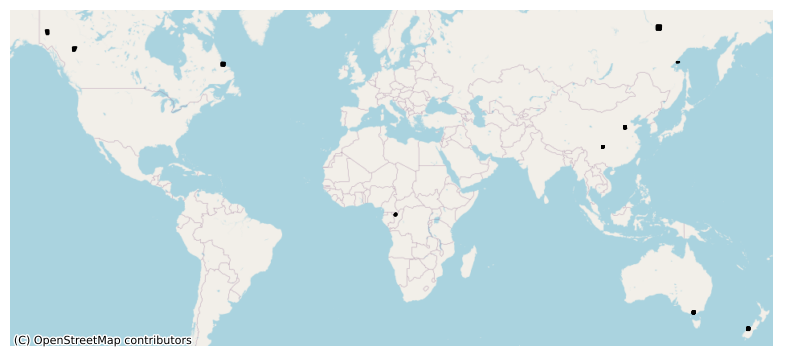
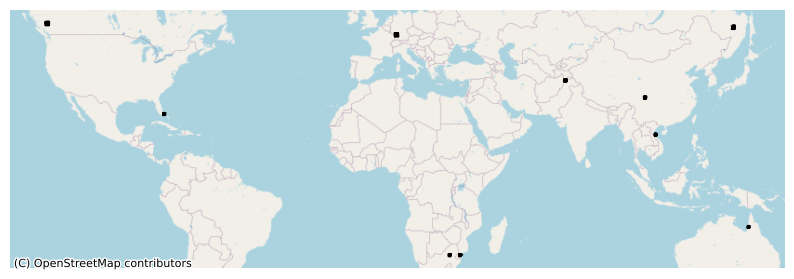
Deploying to gh-pages from @ Clay-foundation/model@733dcf20fc7390b9d2e3c31ae37464380aebdf1e 🚀

diff --git a/Clay Model releases/clay v0 release.html b/Clay Model releases/clay v0 release.html
@@ -94,18 +94,21 @@ pre > code.sourceCode > span > a:first-child::before { text-decoration: underlin
     "search-label": "Search"
   }
 }</script>
+<script src="https://cdnjs.cloudflare.com/ajax/libs/require.js/2.3.6/require.min.js" integrity="sha512-c3Nl8+7g4LMSTdrm621y7kf9v3SDPnhxLNhcjFJbKECVnmZHTdo+IRO05sNLTH/D3vA6u1X32ehoLC7WFVdheg==" crossorigin="anonymous"></script>
+<script src="https://cdnjs.cloudflare.com/ajax/libs/jquery/3.5.1/jquery.min.js" integrity="sha512-bLT0Qm9VnAYZDflyKcBaQ2gg0hSYNQrJ8RilYldYQ1FxQYoCLtUjuuRuZo+fjqhx/qtq/1itJ0C2ejDxltZVFg==" crossorigin="anonymous"></script>
+<script type="application/javascript">define('jquery', [],function() {return window.jQuery;})</script>
 
 
 <link rel="stylesheet" href="../styles.css">
 <meta property="og:title" content="clay - Clay Model v0 release">
 <meta property="og:description" content="Documentation for the Clay Model v0 release.">
-<meta property="og:image" content="https://Clay-foundation.github.io/model/Clay Model releases/Clay v0 release_files/figure-html/cell-3-output-1.png">
+<meta property="og:image" content="https://Clay-foundation.github.io/model/Clay Model releases/Clay v0 release_files/figure-html/cell-4-output-1.png">
 <meta property="og:site-name" content="clay">
 <meta property="og:image:height" content="389">
 <meta property="og:image:width" content="794">
 <meta name="twitter:title" content="clay - Clay Model v0 release">
 <meta name="twitter:description" content="Documentation for the Clay Model v0 release.">
-<meta name="twitter:image" content="https://Clay-foundation.github.io/model/Clay Model releases/Clay v0 release_files/figure-html/cell-3-output-1.png">
+<meta name="twitter:image" content="https://Clay-foundation.github.io/model/Clay Model releases/Clay v0 release_files/figure-html/cell-4-output-1.png">
 <meta name="twitter:image-height" content="389">
 <meta name="twitter:image-width" content="794">
 <meta name="twitter:card" content="summary_large_image">
@@ -412,10 +415,9 @@ pre > code.sourceCode > span > a:first-child::before { text-decoration: underlin
 <p>Let’s read all the embeddings from the trainning data and see how they look like.</p>
 <div class="cell">
 <div class="sourceCode cell-code" id="cb3"><pre class="sourceCode python code-with-copy"><code class="sourceCode python"><span id="cb3-1"><a href="#cb3-1" aria-hidden="true" tabindex="-1"></a>embeddings_path <span class="op">=</span> Path(<span class="st">"/home/brunosan/data/Clay/clay-vector-embeddings-v001"</span>)</span>
-<span id="cb3-2"><a href="#cb3-2" aria-hidden="true" tabindex="-1"></a>embeddings <span class="op">=</span> clay.embeddings.EmbeddingsHandler(embeddings_path)</span>
-<span id="cb3-3"><a href="#cb3-3" aria-hidden="true" tabindex="-1"></a>embeddings.load_data()</span></code><button title="Copy to Clipboard" class="code-copy-button"><i class="bi"></i></button></pre></div>
+<span id="cb3-2"><a href="#cb3-2" aria-hidden="true" tabindex="-1"></a>embeddings <span class="op">=</span> clay.embeddings.EmbeddingsHandler(embeddings_path)</span></code><button title="Copy to Clipboard" class="code-copy-button"><i class="bi"></i></button></pre></div>
 <div class="cell-output cell-output-stderr">
-<pre><code>100%|██████████| 1088/1088 [00:04&lt;00:00, 237.36it/s]</code></pre>
+<pre><code>100%|██████████| 1088/1088 [00:04&lt;00:00, 232.51it/s]</code></pre>
 </div>
 <div class="cell-output cell-output-stdout">
 <pre><code>Total rows: 947019
@@ -425,9 +427,53 @@ Done!
 </div>
 </div>
 <div class="cell">
-<div class="sourceCode cell-code" id="cb6"><pre class="sourceCode python code-with-copy"><code class="sourceCode python"><span id="cb6-1"><a href="#cb6-1" aria-hidden="true" tabindex="-1"></a>embeddings.plot(max_rows<span class="op">=</span><span class="va">None</span>)</span></code><button title="Copy to Clipboard" class="code-copy-button"><i class="bi"></i></button></pre></div>
+<div class="sourceCode cell-code" id="cb6"><pre class="sourceCode python code-with-copy"><code class="sourceCode python"><span id="cb6-1"><a href="#cb6-1" aria-hidden="true" tabindex="-1"></a>embeddings.gdf.head(n<span class="op">=</span><span class="dv">1</span>)</span></code><button title="Copy to Clipboard" class="code-copy-button"><i class="bi"></i></button></pre></div>
 <div class="cell-output cell-output-display">
-<p><img src="Clay v0 release_files/figure-html/cell-3-output-1.png" class="img-fluid"></p>
+<div>
+
+
+<table class="dataframe table table-sm table-striped small" data-quarto-postprocess="true" data-border="1">
+<thead>
+<tr class="header">
+<th data-quarto-table-cell-role="th"></th>
+<th data-quarto-table-cell-role="th">index</th>
+<th data-quarto-table-cell-role="th">source_url</th>
+<th data-quarto-table-cell-role="th">date</th>
+<th data-quarto-table-cell-role="th">embeddings</th>
+<th data-quarto-table-cell-role="th">geometry</th>
+<th data-quarto-table-cell-role="th">x</th>
+<th data-quarto-table-cell-role="th">y</th>
+<th data-quarto-table-cell-role="th">location</th>
+<th data-quarto-table-cell-role="th">start_date</th>
+<th data-quarto-table-cell-role="th">end_date</th>
+<th data-quarto-table-cell-role="th">version</th>
+</tr>
+</thead>
+<tbody>
+<tr class="odd">
+<td data-quarto-table-cell-role="th">0</td>
+<td>0</td>
+<td>s3://clay-tiles-02/02/33PWP/2018-10-21/claytil...</td>
+<td>2018-10-21</td>
+<td>[0.0053703142, -0.0085538495, 0.0025720706, 0....</td>
+<td>POLYGON ((1675014.721 1416156.064, 1675015.662...</td>
+<td>1.672391e+06</td>
+<td>1.418797e+06</td>
+<td>33PWP</td>
+<td>2018-10-21</td>
+<td>2020-01-14</td>
+<td>v001</td>
+</tr>
+</tbody>
+</table>
+
+</div>
+</div>
+</div>
+<div class="cell">
+<div class="sourceCode cell-code" id="cb7"><pre class="sourceCode python code-with-copy"><code class="sourceCode python"><span id="cb7-1"><a href="#cb7-1" aria-hidden="true" tabindex="-1"></a>embeddings.plot_locations(max_rows<span class="op">=</span><span class="va">None</span>)</span></code><button title="Copy to Clipboard" class="code-copy-button"><i class="bi"></i></button></pre></div>
+<div class="cell-output cell-output-display">
+<p><img src="Clay v0 release_files/figure-html/cell-4-output-1.png" class="img-fluid"></p>
 </div>
 </div>
 <p>These are some properties we expect from the embeddings:</p>
@@ -439,49 +485,72 @@ Done!
 <section id="l2norm-distribution" class="level3">
 <h3 class="anchored" data-anchor-id="l2norm-distribution">L2norm distribution</h3>
 <div class="cell">
-<div class="sourceCode cell-code" id="cb7"><pre class="sourceCode python code-with-copy"><code class="sourceCode python"><span id="cb7-1"><a href="#cb7-1" aria-hidden="true" tabindex="-1"></a>embeddings.gdf[<span class="st">"l2norm"</span>] <span class="op">=</span> embeddings.gdf[<span class="st">"embeddings"</span>].<span class="bu">apply</span>(</span>
-<span id="cb7-2"><a href="#cb7-2" aria-hidden="true" tabindex="-1"></a>    <span class="kw">lambda</span> x: np.linalg.norm(x, <span class="bu">ord</span><span class="op">=</span><span class="dv">2</span>)</span>
-<span id="cb7-3"><a href="#cb7-3" aria-hidden="true" tabindex="-1"></a>)</span></code><button title="Copy to Clipboard" class="code-copy-button"><i class="bi"></i></button></pre></div>
+<div class="sourceCode cell-code" id="cb8"><pre class="sourceCode python code-with-copy"><code class="sourceCode python"><span id="cb8-1"><a href="#cb8-1" aria-hidden="true" tabindex="-1"></a>embeddings.gdf[<span class="st">"l2norm"</span>] <span class="op">=</span> embeddings.gdf[<span class="st">"embeddings"</span>].<span class="bu">apply</span>(</span>
+<span id="cb8-2"><a href="#cb8-2" aria-hidden="true" tabindex="-1"></a>    <span class="kw">lambda</span> x: np.linalg.norm(x, <span class="bu">ord</span><span class="op">=</span><span class="dv">2</span>)</span>
+<span id="cb8-3"><a href="#cb8-3" aria-hidden="true" tabindex="-1"></a>)</span></code><button title="Copy to Clipboard" class="code-copy-button"><i class="bi"></i></button></pre></div>
 </div>
-<div class="cell" data-execution_count="19">
-<div class="sourceCode cell-code" id="cb8"><pre class="sourceCode python code-with-copy"><code class="sourceCode python"><span id="cb8-1"><a href="#cb8-1" aria-hidden="true" tabindex="-1"></a>fig, ax <span class="op">=</span> plt.subplots(<span class="dv">1</span>, <span class="dv">2</span>, figsize<span class="op">=</span>(<span class="dv">10</span>, <span class="dv">5</span>))</span>
-<span id="cb8-2"><a href="#cb8-2" aria-hidden="true" tabindex="-1"></a>ax[<span class="dv">0</span>].set_title(<span class="st">"L2 norm histogram"</span>)</span>
-<span id="cb8-3"><a href="#cb8-3" aria-hidden="true" tabindex="-1"></a>ax[<span class="dv">0</span>].set_xlabel(<span class="st">"L2 norm"</span>)</span>
-<span id="cb8-4"><a href="#cb8-4" aria-hidden="true" tabindex="-1"></a>ax[<span class="dv">0</span>].set_ylabel(<span class="st">"Count"</span>)</span>
-<span id="cb8-5"><a href="#cb8-5" aria-hidden="true" tabindex="-1"></a>ax[<span class="dv">0</span>].hist(embeddings.gdf[<span class="st">"l2norm"</span>], bins<span class="op">=</span><span class="dv">100</span>)</span>
-<span id="cb8-6"><a href="#cb8-6" aria-hidden="true" tabindex="-1"></a>ax[<span class="dv">1</span>].set_title(<span class="st">"L2 norm cumulative histogram"</span>)</span>
-<span id="cb8-7"><a href="#cb8-7" aria-hidden="true" tabindex="-1"></a>ax[<span class="dv">1</span>].set_xlabel(<span class="st">"L2 norm"</span>)</span>
-<span id="cb8-8"><a href="#cb8-8" aria-hidden="true" tabindex="-1"></a>ax[<span class="dv">1</span>].set_ylabel(<span class="st">"Cumulative count"</span>)</span>
-<span id="cb8-9"><a href="#cb8-9" aria-hidden="true" tabindex="-1"></a>ax[<span class="dv">1</span>].hist(embeddings.gdf[<span class="st">"l2norm"</span>], bins<span class="op">=</span><span class="dv">100</span>, density<span class="op">=</span><span class="va">True</span>, cumulative<span class="op">=</span><span class="va">True</span>)</span></code><button title="Copy to Clipboard" class="code-copy-button"><i class="bi"></i></button></pre></div>
-<div class="cell-output cell-output-display">
-<p><img src="Clay v0 release_files/figure-html/cell-5-output-1.png" class="img-fluid"></p>
-</div>
-</div>
-<p>We can see that ~80% of the embeddings are between <code>2.7</code> and <code>2.9</code>, with two peaks on the edges. We can explore samples from the tails to see what is going on.</p>
 <div class="cell">
-<div class="sourceCode cell-code" id="cb9"><pre class="sourceCode python code-with-copy"><code class="sourceCode python"><span id="cb9-1"><a href="#cb9-1" aria-hidden="true" tabindex="-1"></a>left_peak_range <span class="op">=</span> [<span class="fl">2.6</span>, <span class="fl">2.7</span>]</span>
-<span id="cb9-2"><a href="#cb9-2" aria-hidden="true" tabindex="-1"></a>right_peak_range <span class="op">=</span> [<span class="fl">2.95</span>, <span class="fl">3.1</span>]</span>
-<span id="cb9-3"><a href="#cb9-3" aria-hidden="true" tabindex="-1"></a></span>
-<span id="cb9-4"><a href="#cb9-4" aria-hidden="true" tabindex="-1"></a><span class="bu">print</span>(<span class="ss">f"embeddings: </span><span class="sc">{</span><span class="bu">len</span>(embeddings.gdf)<span class="sc">}</span><span class="ss">"</span>)</span>
-<span id="cb9-5"><a href="#cb9-5" aria-hidden="true" tabindex="-1"></a></span>
-<span id="cb9-6"><a href="#cb9-6" aria-hidden="true" tabindex="-1"></a>left_tails <span class="op">=</span> copy.deepcopy(embeddings)</span>
-<span id="cb9-7"><a href="#cb9-7" aria-hidden="true" tabindex="-1"></a>left_tails.gdf <span class="op">=</span> embeddings.gdf[</span>
-<span id="cb9-8"><a href="#cb9-8" aria-hidden="true" tabindex="-1"></a>    (embeddings.gdf[<span class="st">"l2norm"</span>] <span class="op">&gt;</span> left_peak_range[<span class="dv">0</span>])</span>
-<span id="cb9-9"><a href="#cb9-9" aria-hidden="true" tabindex="-1"></a>    <span class="op">&amp;</span> (embeddings.gdf[<span class="st">"l2norm"</span>] <span class="op">&lt;</span> left_peak_range[<span class="dv">1</span>])</span>
-<span id="cb9-10"><a href="#cb9-10" aria-hidden="true" tabindex="-1"></a>].copy()</span>
-<span id="cb9-11"><a href="#cb9-11" aria-hidden="true" tabindex="-1"></a></span>
-<span id="cb9-12"><a href="#cb9-12" aria-hidden="true" tabindex="-1"></a>right_tails <span class="op">=</span> copy.deepcopy(embeddings)</span>
-<span id="cb9-13"><a href="#cb9-13" aria-hidden="true" tabindex="-1"></a>right_tails.gdf <span class="op">=</span> embeddings.gdf[</span>
-<span id="cb9-14"><a href="#cb9-14" aria-hidden="true" tabindex="-1"></a>    (embeddings.gdf[<span class="st">"l2norm"</span>] <span class="op">&gt;</span> right_peak_range[<span class="dv">0</span>])</span>
-<span id="cb9-15"><a href="#cb9-15" aria-hidden="true" tabindex="-1"></a>    <span class="op">&amp;</span> (embeddings.gdf[<span class="st">"l2norm"</span>] <span class="op">&lt;</span> right_peak_range[<span class="dv">1</span>])</span>
-<span id="cb9-16"><a href="#cb9-16" aria-hidden="true" tabindex="-1"></a>].copy()</span>
-<span id="cb9-17"><a href="#cb9-17" aria-hidden="true" tabindex="-1"></a></span>
-<span id="cb9-18"><a href="#cb9-18" aria-hidden="true" tabindex="-1"></a><span class="bu">print</span>(<span class="ss">f"left_tails: </span><span class="sc">{</span><span class="bu">len</span>(left_tails.gdf)<span class="sc">}</span><span class="ss">"</span>)</span>
-<span id="cb9-19"><a href="#cb9-19" aria-hidden="true" tabindex="-1"></a><span class="bu">print</span>(<span class="ss">f"right_tails: </span><span class="sc">{</span><span class="bu">len</span>(right_tails.gdf)<span class="sc">}</span><span class="ss">"</span>)</span></code><button title="Copy to Clipboard" class="code-copy-button"><i class="bi"></i></button></pre></div>
-<div class="cell-output cell-output-stdout">
-<pre><code>embeddings: 947019
-left_tails: 60581
-right_tails: 94057</code></pre>
+<div class="sourceCode cell-code" id="cb9"><pre class="sourceCode python code-with-copy"><code class="sourceCode python"><span id="cb9-1"><a href="#cb9-1" aria-hidden="true" tabindex="-1"></a>fig, ax <span class="op">=</span> plt.subplots(<span class="dv">1</span>, <span class="dv">2</span>, figsize<span class="op">=</span>(<span class="dv">10</span>, <span class="dv">5</span>))</span>
+<span id="cb9-2"><a href="#cb9-2" aria-hidden="true" tabindex="-1"></a>ax[<span class="dv">0</span>].set_title(<span class="st">"L2 norm histogram"</span>)</span>
+<span id="cb9-3"><a href="#cb9-3" aria-hidden="true" tabindex="-1"></a>ax[<span class="dv">0</span>].set_xlabel(<span class="st">"L2 norm"</span>)</span>
+<span id="cb9-4"><a href="#cb9-4" aria-hidden="true" tabindex="-1"></a>ax[<span class="dv">0</span>].set_ylabel(<span class="st">"Count"</span>)</span>
+<span id="cb9-5"><a href="#cb9-5" aria-hidden="true" tabindex="-1"></a>ax[<span class="dv">0</span>].hist(embeddings.gdf[<span class="st">"l2norm"</span>], bins<span class="op">=</span><span class="dv">100</span>)</span>
+<span id="cb9-6"><a href="#cb9-6" aria-hidden="true" tabindex="-1"></a>ax[<span class="dv">1</span>].set_title(<span class="st">"L2 norm cumulative histogram"</span>)</span>
+<span id="cb9-7"><a href="#cb9-7" aria-hidden="true" tabindex="-1"></a>ax[<span class="dv">1</span>].set_xlabel(<span class="st">"L2 norm"</span>)</span>
+<span id="cb9-8"><a href="#cb9-8" aria-hidden="true" tabindex="-1"></a>ax[<span class="dv">1</span>].set_ylabel(<span class="st">"Cumulative count"</span>)</span>
+<span id="cb9-9"><a href="#cb9-9" aria-hidden="true" tabindex="-1"></a>ax[<span class="dv">1</span>].hist(embeddings.gdf[<span class="st">"l2norm"</span>], bins<span class="op">=</span><span class="dv">100</span>, density<span class="op">=</span><span class="va">True</span>, cumulative<span class="op">=</span><span class="va">True</span>)</span>
+<span id="cb9-10"><a href="#cb9-10" aria-hidden="true" tabindex="-1"></a></span>
+<span id="cb9-11"><a href="#cb9-11" aria-hidden="true" tabindex="-1"></a>peaks <span class="op">=</span> [<span class="fl">2.65</span>, <span class="fl">2.83</span>, <span class="fl">3.06</span>]</span>
+<span id="cb9-12"><a href="#cb9-12" aria-hidden="true" tabindex="-1"></a><span class="cf">for</span> i <span class="kw">in</span> peaks:</span>
+<span id="cb9-13"><a href="#cb9-13" aria-hidden="true" tabindex="-1"></a>    ax[<span class="dv">0</span>].axvline(i, color<span class="op">=</span><span class="st">"red"</span>, linestyle<span class="op">=</span><span class="st">"--"</span>)</span>
+<span id="cb9-14"><a href="#cb9-14" aria-hidden="true" tabindex="-1"></a>    ax[<span class="dv">0</span>].axvline(i, color<span class="op">=</span><span class="st">"red"</span>, linestyle<span class="op">=</span><span class="st">"--"</span>)</span>
+<span id="cb9-15"><a href="#cb9-15" aria-hidden="true" tabindex="-1"></a>range_of_peaks <span class="op">=</span> [<span class="fl">2.6</span>, <span class="fl">2.68</span>, <span class="dv">3</span>, <span class="fl">3.1</span>]</span>
+<span id="cb9-16"><a href="#cb9-16" aria-hidden="true" tabindex="-1"></a><span class="cf">for</span> i <span class="kw">in</span> peaks:</span>
+<span id="cb9-17"><a href="#cb9-17" aria-hidden="true" tabindex="-1"></a>    ax[<span class="dv">0</span>].axvline(i, color<span class="op">=</span><span class="st">"black"</span>, linestyle<span class="op">=</span><span class="st">"--"</span>)</span>
+<span id="cb9-18"><a href="#cb9-18" aria-hidden="true" tabindex="-1"></a>    ax[<span class="dv">0</span>].axvline(i, color<span class="op">=</span><span class="st">"black"</span>, linestyle<span class="op">=</span><span class="st">"--"</span>)</span></code><button title="Copy to Clipboard" class="code-copy-button"><i class="bi"></i></button></pre></div>
+<div class="cell-output cell-output-display">
+<p><img src="Clay v0 release_files/figure-html/cell-6-output-1.png" class="img-fluid"></p>
+</div>
+</div>
+<p>We can see that ~80% of the embeddings are between <code>2.65</code> and <code>3.06</code>, with two peaks on the edges. We can explore samples from the tails to see what is going on.</p>
+<div class="cell">
+<div class="sourceCode cell-code" id="cb10"><pre class="sourceCode python code-with-copy"><code class="sourceCode python"><span id="cb10-1"><a href="#cb10-1" aria-hidden="true" tabindex="-1"></a>peak <span class="op">=</span> peaks[<span class="dv">0</span>]</span>
+<span id="cb10-2"><a href="#cb10-2" aria-hidden="true" tabindex="-1"></a>embeddings.gdf[<span class="st">"distance_to_peak"</span>] <span class="op">=</span> (embeddings.gdf[<span class="st">"l2norm"</span>] <span class="op">-</span> peak).<span class="bu">abs</span>()</span>
+<span id="cb10-3"><a href="#cb10-3" aria-hidden="true" tabindex="-1"></a></span>
+<span id="cb10-4"><a href="#cb10-4" aria-hidden="true" tabindex="-1"></a>embeddings.gdf.sort_values(by<span class="op">=</span><span class="st">"distance_to_peak"</span>, inplace<span class="op">=</span><span class="va">True</span>)</span>
+<span id="cb10-5"><a href="#cb10-5" aria-hidden="true" tabindex="-1"></a></span>
+<span id="cb10-6"><a href="#cb10-6" aria-hidden="true" tabindex="-1"></a>indices <span class="op">=</span> embeddings.gdf.head(n<span class="op">=</span><span class="dv">12</span>).index</span>
+<span id="cb10-7"><a href="#cb10-7" aria-hidden="true" tabindex="-1"></a>embeddings.rgb_imgs(indices, local_folder<span class="op">=</span>Path(<span class="st">"/home/brunosan/data/Clay/rgbs/"</span>))</span></code><button title="Copy to Clipboard" class="code-copy-button"><i class="bi"></i></button></pre></div>
+<div class="cell-output cell-output-display">
+<p><img src="Clay v0 release_files/figure-html/cell-7-output-1.png" class="img-fluid"></p>
+</div>
+</div>
+<p>They seem to correspond to chips with a lot of snow. I might make sense that the semantics here are both different and “smaller”.</p>
+<p>For the second peak we thus expect more complex, yet rare, semantics. Since the lenght is bigger and the peak much smaller than the rest.</p>
+<div class="cell">
+<div class="sourceCode cell-code" id="cb11"><pre class="sourceCode python code-with-copy"><code class="sourceCode python"><span id="cb11-1"><a href="#cb11-1" aria-hidden="true" tabindex="-1"></a>peak <span class="op">=</span> peaks[<span class="dv">2</span>]</span>
+<span id="cb11-2"><a href="#cb11-2" aria-hidden="true" tabindex="-1"></a>embeddings.gdf[<span class="st">"distance_to_peak"</span>] <span class="op">=</span> (embeddings.gdf[<span class="st">"l2norm"</span>] <span class="op">-</span> peak).<span class="bu">abs</span>()</span>
+<span id="cb11-3"><a href="#cb11-3" aria-hidden="true" tabindex="-1"></a></span>
+<span id="cb11-4"><a href="#cb11-4" aria-hidden="true" tabindex="-1"></a>embeddings.gdf.sort_values(by<span class="op">=</span><span class="st">"distance_to_peak"</span>, inplace<span class="op">=</span><span class="va">True</span>)</span>
+<span id="cb11-5"><a href="#cb11-5" aria-hidden="true" tabindex="-1"></a></span>
+<span id="cb11-6"><a href="#cb11-6" aria-hidden="true" tabindex="-1"></a>indices <span class="op">=</span> embeddings.gdf.head(n<span class="op">=</span><span class="dv">12</span>).index</span>
+<span id="cb11-7"><a href="#cb11-7" aria-hidden="true" tabindex="-1"></a>embeddings.rgb_imgs(indices, local_folder<span class="op">=</span>Path(<span class="st">"/home/brunosan/data/Clay/rgbs/"</span>))</span></code><button title="Copy to Clipboard" class="code-copy-button"><i class="bi"></i></button></pre></div>
+<div class="cell-output cell-output-display">
+<p><img src="Clay v0 release_files/figure-html/cell-8-output-1.png" class="img-fluid"></p>
+</div>
+</div>
+<p>This secondary peak seems to aggregate open water locations.</p>
+<p>And now, let’s just visualize the peak of the histogram, the most common “length” of the embeddings.</p>
+<div class="cell">
+<div class="sourceCode cell-code" id="cb12"><pre class="sourceCode python code-with-copy"><code class="sourceCode python"><span id="cb12-1"><a href="#cb12-1" aria-hidden="true" tabindex="-1"></a>peak <span class="op">=</span> peaks[<span class="dv">1</span>]</span>
+<span id="cb12-2"><a href="#cb12-2" aria-hidden="true" tabindex="-1"></a>embeddings.gdf[<span class="st">"distance_to_peak"</span>] <span class="op">=</span> (embeddings.gdf[<span class="st">"l2norm"</span>] <span class="op">-</span> peak).<span class="bu">abs</span>()</span>
+<span id="cb12-3"><a href="#cb12-3" aria-hidden="true" tabindex="-1"></a></span>
+<span id="cb12-4"><a href="#cb12-4" aria-hidden="true" tabindex="-1"></a>embeddings.gdf.sort_values(by<span class="op">=</span><span class="st">"distance_to_peak"</span>, inplace<span class="op">=</span><span class="va">True</span>)</span>
+<span id="cb12-5"><a href="#cb12-5" aria-hidden="true" tabindex="-1"></a></span>
+<span id="cb12-6"><a href="#cb12-6" aria-hidden="true" tabindex="-1"></a>indices <span class="op">=</span> embeddings.gdf.head(n<span class="op">=</span><span class="dv">12</span>).index</span>
+<span id="cb12-7"><a href="#cb12-7" aria-hidden="true" tabindex="-1"></a>embeddings.rgb_imgs(indices, local_folder<span class="op">=</span>Path(<span class="st">"/home/brunosan/data/Clay/rgbs/"</span>))</span></code><button title="Copy to Clipboard" class="code-copy-button"><i class="bi"></i></button></pre></div>
+<div class="cell-output cell-output-display">
+<p><img src="Clay v0 release_files/figure-html/cell-9-output-1.png" class="img-fluid"></p>
 </div>
 </div>
 </section>

diff --git a/embeddings.html b/embeddings.html
@@ -101,12 +101,12 @@ pre > code.sourceCode > span > a:first-child::before { text-decoration: underlin
 <meta property="og:description" content="Working with semantic embeddings of Earth">
 <meta property="og:image" content="https://Clay-foundation.github.io/model/01_embeddings_files/figure-html/cell-7-output-1.png">
 <meta property="og:site-name" content="clay">
-<meta property="og:image:height" content="356">
+<meta property="og:image:height" content="279">
 <meta property="og:image:width" content="794">
 <meta name="twitter:title" content="clay - Embeddings">
 <meta name="twitter:description" content="Working with semantic embeddings of Earth">
 <meta name="twitter:image" content="https://Clay-foundation.github.io/model/01_embeddings_files/figure-html/cell-7-output-1.png">
-<meta name="twitter:image-height" content="356">
+<meta name="twitter:image-height" content="279">
 <meta name="twitter:image-width" content="794">
 <meta name="twitter:card" content="summary_large_image">
 </head>
@@ -226,8 +226,8 @@ pre > code.sourceCode > span > a:first-child::before { text-decoration: underlin
   <li><a href="#working-with-embeddings" id="toc-working-with-embeddings" class="nav-link" data-scroll-target="#working-with-embeddings">Working with embeddings</a>
   <ul class="collapse">
   <li><a href="#embeddingshandler" id="toc-embeddingshandler" class="nav-link" data-scroll-target="#embeddingshandler">EmbeddingsHandler</a></li>
-  <li><a href="#embeddingshandler.read_embeddings_file" id="toc-embeddingshandler.read_embeddings_file" class="nav-link" data-scroll-target="#embeddingshandler.read_embeddings_file">EmbeddingsHandler.read_embeddings_file</a></li>
-  <li><a href="#embeddingshandler.plot" id="toc-embeddingshandler.plot" class="nav-link" data-scroll-target="#embeddingshandler.plot">EmbeddingsHandler.plot</a></li>
+  <li><a href="#embeddingshandler.read_geoparquet_file" id="toc-embeddingshandler.read_geoparquet_file" class="nav-link" data-scroll-target="#embeddingshandler.read_geoparquet_file">EmbeddingsHandler.read_geoparquet_file</a></li>
+  <li><a href="#embeddingshandler.plot_locations" id="toc-embeddingshandler.plot_locations" class="nav-link" data-scroll-target="#embeddingshandler.plot_locations">EmbeddingsHandler.plot_locations</a></li>
   </ul></li>
   </ul>
 <div class="toc-actions"><div><i class="bi bi-github"></i></div><div class="action-links"><p><a href="https://github.com/Clay-foundation/model/issues/new" class="toc-action">Report an issue</a></p></div></div></nav>
@@ -470,36 +470,56 @@ More details of how this is implemented can be found by inspecting the
 <p>This is how you can load embeddings from a file or folder with files, including limiting the number of embeddings to load:</p>
 <hr>
 </section>
-<section id="embeddingshandler.read_embeddings_file" class="level3">
-<h3 class="anchored" data-anchor-id="embeddingshandler.read_embeddings_file">EmbeddingsHandler.read_embeddings_file</h3>
+<section id="embeddingshandler.read_geoparquet_file" class="level3">
+<h3 class="anchored" data-anchor-id="embeddingshandler.read_geoparquet_file">EmbeddingsHandler.read_geoparquet_file</h3>
 <blockquote class="blockquote">
-<pre><code> EmbeddingsHandler.read_embeddings_file (file:pathlib.Path)</code></pre>
+<pre><code> EmbeddingsHandler.read_geoparquet_file (file:pathlib.Path)</code></pre>
 </blockquote>
+<p>Reads a geoparquet file and returns a dataframe with the embeddings.</p>
+<table class="table">
+<thead>
+<tr class="header">
+<th></th>
+<th><strong>Type</strong></th>
+<th><strong>Details</strong></th>
+</tr>
+</thead>
+<tbody>
+<tr class="odd">
+<td>file</td>
+<td>Path</td>
+<td>Path to the geoparquet file</td>
+</tr>
+</tbody>
+</table>
 <p>For example, this is how to read 10 random files from a folder:</p>
 <div class="cell">
 <div class="sourceCode cell-code" id="cb11"><pre class="sourceCode python code-with-copy"><code class="sourceCode python"><span id="cb11-1"><a href="#cb11-1" aria-hidden="true" tabindex="-1"></a>embeddings_path <span class="op">=</span> Path(<span class="st">"/home/brunosan/data/Clay/clay-vector-embeddings-v001"</span>)</span>
-<span id="cb11-2"><a href="#cb11-2" aria-hidden="true" tabindex="-1"></a>embeddings <span class="op">=</span> EmbeddingsHandler(embeddings_path, max_files<span class="op">=</span><span class="dv">10</span>)</span>
-<span id="cb11-3"><a href="#cb11-3" aria-hidden="true" tabindex="-1"></a>embeddings.load_data()</span></code><button title="Copy to Clipboard" class="code-copy-button"><i class="bi"></i></button></pre></div>
+<span id="cb11-2"><a href="#cb11-2" aria-hidden="true" tabindex="-1"></a>embeddings <span class="op">=</span> EmbeddingsHandler(embeddings_path, max_files<span class="op">=</span><span class="dv">10</span>)</span></code><button title="Copy to Clipboard" class="code-copy-button"><i class="bi"></i></button></pre></div>
 <div class="cell-output cell-output-stderr">
-<pre><code>100%|██████████| 10/10 [00:00&lt;00:00, 132.35it/s]</code></pre>
+<pre><code>100%|██████████| 10/10 [00:00&lt;00:00, 113.63it/s]</code></pre>
 </div>
 <div class="cell-output cell-output-stdout">
-<pre><code>Total rows: 7779
+<pre><code>Total rows: 9896
  Merging dataframes...
 Done!
- Total rows:  7779</code></pre>
+ Total rows:  9896</code></pre>
 </div>
 </div>
 <p>Then you can plot the embeddings:</p>
 <hr>
 </section>
-<section id="embeddingshandler.plot" class="level3">
-<h3 class="anchored" data-anchor-id="embeddingshandler.plot">EmbeddingsHandler.plot</h3>
+<section id="embeddingshandler.plot_locations" class="level3">
+<h3 class="anchored" data-anchor-id="embeddingshandler.plot_locations">EmbeddingsHandler.plot_locations</h3>
 <blockquote class="blockquote">
-<pre><code> EmbeddingsHandler.plot (figsize:[&lt;class'int'&gt;,&lt;class'int'&gt;]=(10, 10),
-                         alpha:float=0.2, edgecolor:str='k',
-                         max_rows:[&lt;class'int'&gt;,None]=10000, bounds=None)</code></pre>
+<pre><code> EmbeddingsHandler.plot_locations
+                                   (figsize:[&lt;class'int'&gt;,&lt;class'int'&gt;]=(1
+                                   0, 10), alpha:float=0.2,
+                                   edgecolor:str='k',
+                                   max_rows:[&lt;class'int'&gt;,None]=10000,
+                                   bounds=None)</code></pre>
 </blockquote>
+<p>Plots the dataframe on a map with an OSM underlay.</p>
 <table class="table">
 <colgroup>
 <col style="width: 6%">
@@ -549,7 +569,7 @@ Done!
 </tbody>
 </table>
 <div class="cell">
-<div class="sourceCode cell-code" id="cb15"><pre class="sourceCode python code-with-copy"><code class="sourceCode python"><span id="cb15-1"><a href="#cb15-1" aria-hidden="true" tabindex="-1"></a>embeddings.plot()</span></code><button title="Copy to Clipboard" class="code-copy-button"><i class="bi"></i></button></pre></div>
+<div class="sourceCode cell-code" id="cb15"><pre class="sourceCode python code-with-copy"><code class="sourceCode python"><span id="cb15-1"><a href="#cb15-1" aria-hidden="true" tabindex="-1"></a>embeddings.plot_locations()</span></code><button title="Copy to Clipboard" class="code-copy-button"><i class="bi"></i></button></pre></div>
 <div class="cell-output cell-output-display">
 <p><img src="01_embeddings_files/figure-html/cell-7-output-1.png" class="img-fluid"></p>
 </div>
@@ -564,7 +584,7 @@ Done!
 <span id="cb16-6"><a href="#cb16-6" aria-hidden="true" tabindex="-1"></a>xmin, ymin, xmax, ymax <span class="op">=</span> <span class="bu">buffer</span>.bounds</span>
 <span id="cb16-7"><a href="#cb16-7" aria-hidden="true" tabindex="-1"></a></span>
 <span id="cb16-8"><a href="#cb16-8" aria-hidden="true" tabindex="-1"></a><span class="co"># Call the plot method with the bounds</span></span>
-<span id="cb16-9"><a href="#cb16-9" aria-hidden="true" tabindex="-1"></a>embeddings.plot(bounds<span class="op">=</span>[xmin, xmax, ymin, ymax])</span></code><button title="Copy to Clipboard" class="code-copy-button"><i class="bi"></i></button></pre></div>
+<span id="cb16-9"><a href="#cb16-9" aria-hidden="true" tabindex="-1"></a>embeddings.plot_locations(bounds<span class="op">=</span>[xmin, xmax, ymin, ymax])</span></code><button title="Copy to Clipboard" class="code-copy-button"><i class="bi"></i></button></pre></div>
 <div class="cell-output cell-output-display">
 <p><img src="01_embeddings_files/figure-html/cell-8-output-1.png" class="img-fluid"></p>
 </div>
@@ -579,6 +599,33 @@ Done!
 </div>
 <div class="cell-output cell-output-display">
 <p><img src="01_embeddings_files/figure-html/cell-9-output-2.png" class="img-fluid"></p>
+</div>
+</div>
+<p>To retrieve the RGB image for a given embedding, you can use the <code>rgb_imgs</code> method. the first time it will use the <code>S3</code> url location to pull only the RGB bands, then save it locally for faster later retrieval.</p>
+<p>You must specify the rows you want to retrieve, and if the first time, the output folder where to save the images, if it can’t reuse an existing local folder.</p>
+<div class="cell">
+<div class="sourceCode cell-code" id="cb19"><pre class="sourceCode python code-with-copy"><code class="sourceCode python"><span id="cb19-1"><a href="#cb19-1" aria-hidden="true" tabindex="-1"></a>embeddings.rgb_imgs(</span>
+<span id="cb19-2"><a href="#cb19-2" aria-hidden="true" tabindex="-1"></a>    [<span class="dv">0</span>, <span class="dv">1</span>, <span class="dv">2</span>, <span class="dv">3</span>, <span class="dv">4</span>, <span class="dv">5</span>], local_folder<span class="op">=</span>Path(<span class="st">"/home/brunosan/data/Clay/rgbs/"</span>)</span>
+<span id="cb19-3"><a href="#cb19-3" aria-hidden="true" tabindex="-1"></a>)</span></code><button title="Copy to Clipboard" class="code-copy-button"><i class="bi"></i></button></pre></div>
+<div class="cell-output cell-output-display">
+<p><img src="01_embeddings_files/figure-html/cell-10-output-1.png" class="img-fluid"></p>
+</div>
+</div>
+<p>You can skip the <code>local_folder</code> argument if you already have other local rgb saved.</p>
+<div class="cell">
+<div class="sourceCode cell-code" id="cb20"><pre class="sourceCode python code-with-copy"><code class="sourceCode python"><span id="cb20-1"><a href="#cb20-1" aria-hidden="true" tabindex="-1"></a>embeddings.rgb_imgs([<span class="dv">2</span>], local_folder<span class="op">=</span>Path(<span class="st">"/home/brunosan/data/Clay/rgbs/"</span>))</span></code><button title="Copy to Clipboard" class="code-copy-button"><i class="bi"></i></button></pre></div>
+<div class="cell-output cell-output-stdout">
+<pre><code>Reading local image for row 0</code></pre>
+</div>
+<div class="cell-output cell-output-display">
+<p><img src="01_embeddings_files/figure-html/cell-11-output-2.png" class="img-fluid"></p>
+</div>
+</div>
+<p>If needed you can <code>force_fetch</code> from the <code>S3</code> location again.</p>
+<div class="cell">
+<div class="sourceCode cell-code" id="cb22"><pre class="sourceCode python code-with-copy"><code class="sourceCode python"><span id="cb22-1"><a href="#cb22-1" aria-hidden="true" tabindex="-1"></a>embeddings.rgb_imgs([<span class="dv">2</span>], force_fetch<span class="op">=</span><span class="va">True</span>)</span></code><button title="Copy to Clipboard" class="code-copy-button"><i class="bi"></i></button></pre></div>
+<div class="cell-output cell-output-display">
+<p><img src="01_embeddings_files/figure-html/cell-12-output-1.png" class="img-fluid"></p>
 </div>
 </div>
 
